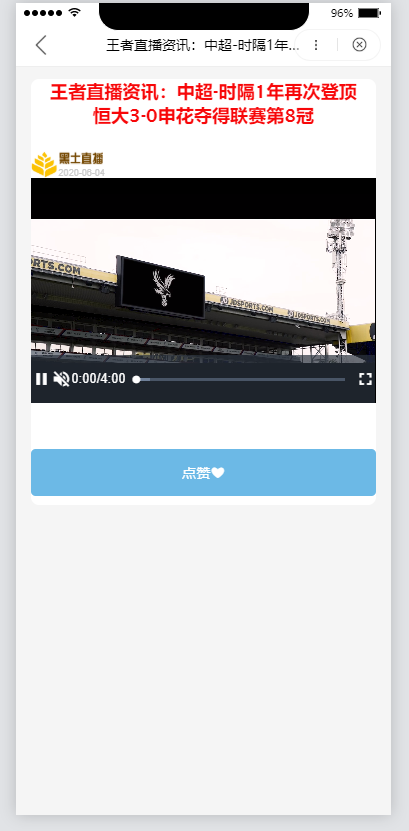
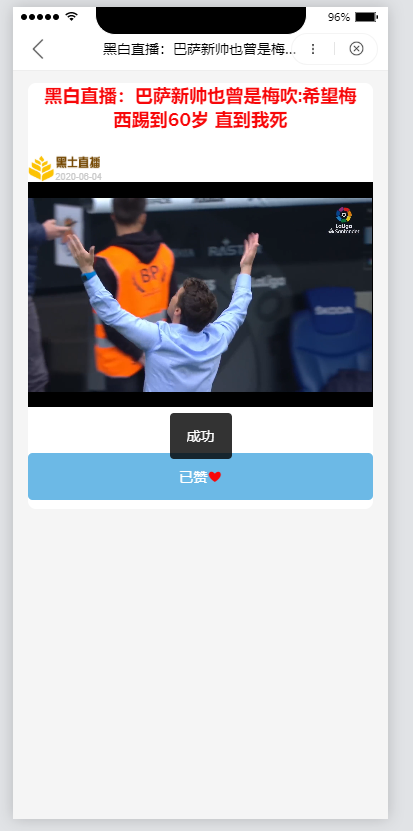
修改视频详情页19 点赞切换功能

Changed region(s): [[0.0293, 0.0, 0.9682, 0.9928]]

diff --git a/小程序模板/视频模板/videotemplate19/pages/detail/detail.js b/小程序模板/视频模板/videotemplate19/pages/detail/detail.js
@@ -25,7 +25,8 @@ Page({
     logo1: "../../images/logo1.png",
     htmlSnip: "",
     apimg: "",
-    video_Src: ""
+    video_Src: "",
+    news_goods: ''
   },
   onShow() {
     swan.request({
@@ -104,7 +105,7 @@ Page({
       dataType: "json",
       responseType: "text",
       data: {
-        id:currentId,
+        id: currentId,
       },
       success: (res) => {
         let {
@@ -112,12 +113,16 @@ Page({
           msg,
           parms
         } = res.data;
-        if (code == 0 && msg == "点赞成功") {
+        if (code == 0 && msg == "成功") {
+
           swan.showToast({
             title: msg,
             icon: "none",
             mask: false,
             success: (res) => {
+              this.setData({
+                news_goods: true
+              })
               // let {
               //   items
               // } = this.data;
@@ -140,6 +145,9 @@ Page({
             icon: "none",
             mask: false,
             success: (res) => {
+              this.setData({
+                news_goods: false
+              })
               // let {
               //   items
               // } = this.data;
@@ -227,13 +235,15 @@ Page({
       },
       success: res => {
         console.log(res.data);
+        let{news_scontent,news_img,news_title,news_time,news_content,news_user_favourite} = res.data.params
         this.setData({
-          video_Src: res.data.params.news_scontent,
-          detailImg: res.data.params.news_img,
-          title: res.data.params.news_title,
-          timer: res.data.params.news_time,
-          htmlSnip: res.data.params.news_content,
-          apimg: api
+          video_Src: news_scontent,
+          detailImg: news_img,
+          title: news_title,
+          timer: news_time,
+          htmlSnip: news_content,
+          apimg: api,
+          news_goods:news_user_favourite
         });
       },
       fail: err => {

diff --git a/小程序模板/视频模板/videotemplate19/pages/detail/detail.css b/小程序模板/视频模板/videotemplate19/pages/detail/detail.css
@@ -112,6 +112,9 @@
     padding: 0.15rem 0 ;
     border-radius: 0.05rem;
 }
+.red{
+    color: #f70709;
+}
 /* template */
 
 /* #myVideo {

diff --git a/小程序模板/视频模板/videotemplate19/app.css b/小程序模板/视频模板/videotemplate19/app.css
@@ -534,3 +534,6 @@ not all {
     text-overflow: ellipsis; 
     white-space: nowrap;
 }
+.span_view{
+    display: inline-block;
+}
